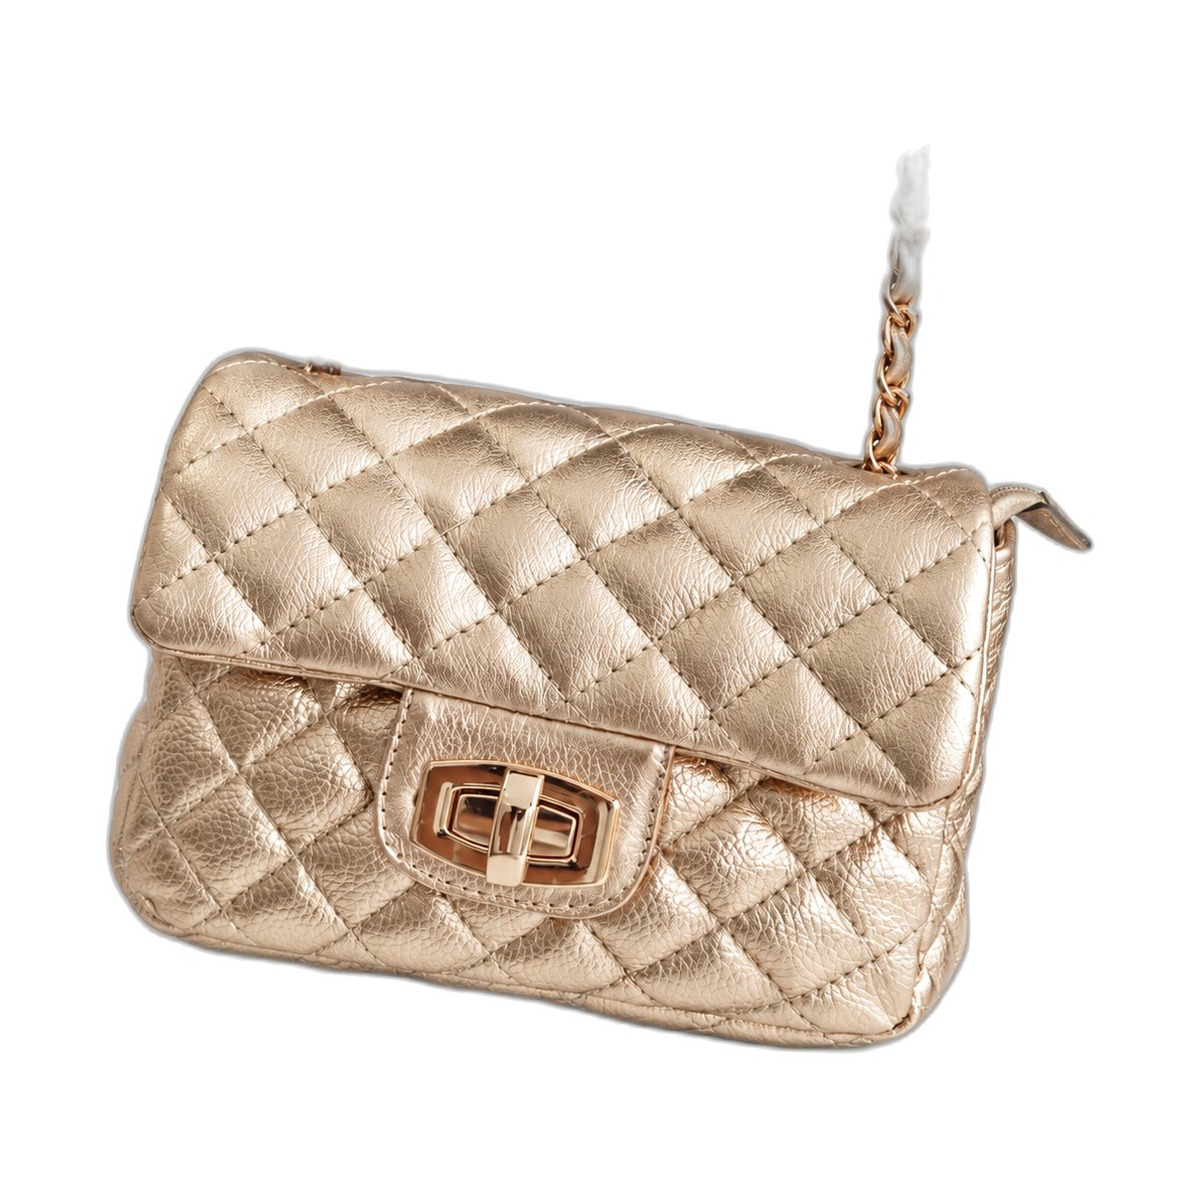
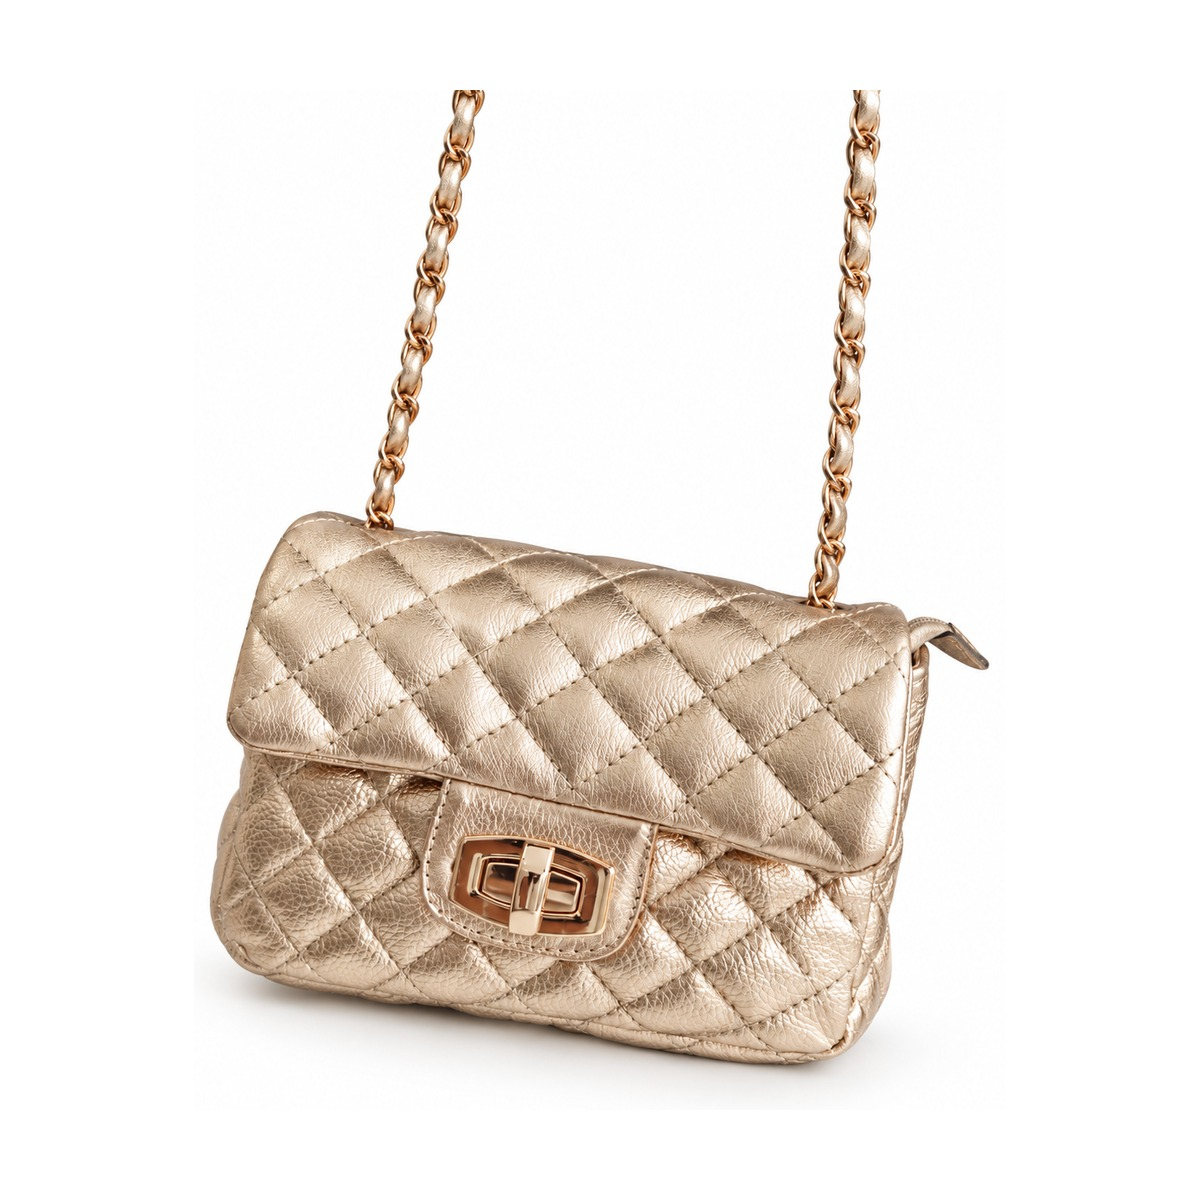
Preserve fine chain details in Chanel PP photo

diff --git a/scripts/prepare_zoom_images.py b/scripts/prepare_zoom_images.py
@@ -1,12 +1,17 @@
 """Remove only outer white canvas margins for an edge-to-edge full photo view."""
 from pathlib import Path
+import sys
 import numpy as np
 from PIL import Image
 
 output = Path('public/catalog-zoom').resolve()
 output.mkdir(exist_ok=True)
 for source in Path('public/catalog-normalized').resolve().glob('*.jpg'):
-    with Image.open(source) as opened:
+    if len(sys.argv)>1 and source.name not in sys.argv[1:]:
+        continue
+    # This photograph has fine chains that segmentation can mistake for background.
+    original = Path('public/catalog-original/bolsa-chanel-pp.png') if source.stem=='bolsa-chanel-pp' else source
+    with Image.open(original) as opened:
         im = opened.convert('RGB')
     a = np.asarray(im)
     ys, xs = np.where(a.min(axis=2)<240)
